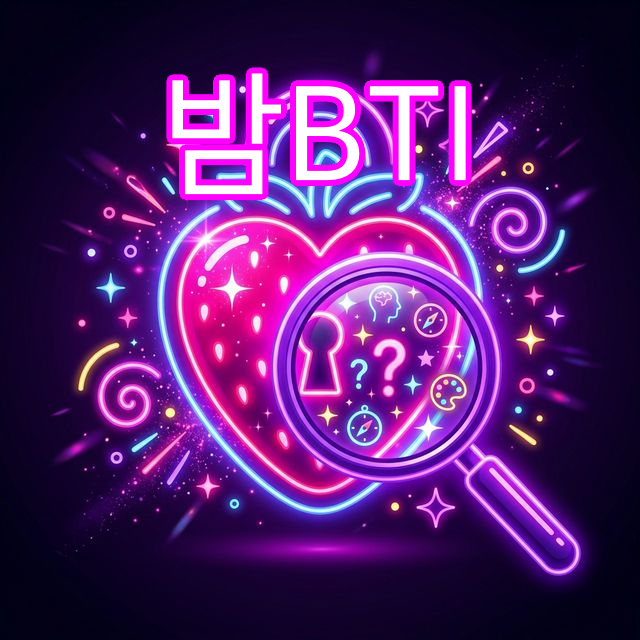
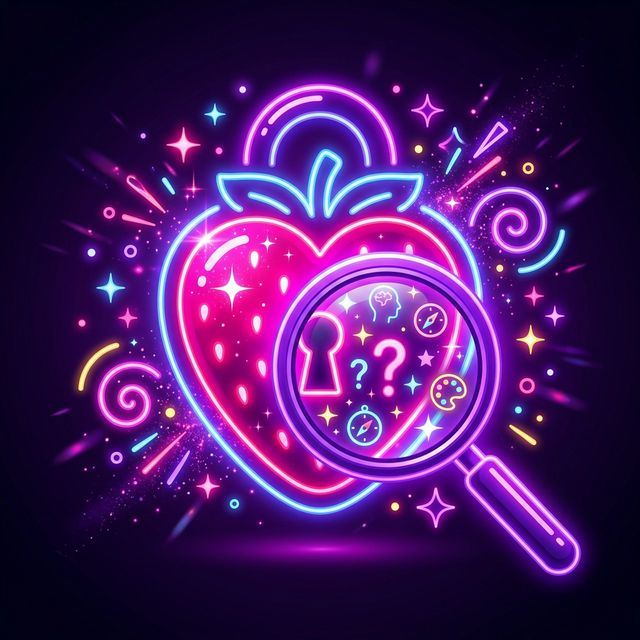
Revert OG image to textless and update OG title to include 밤BTI

Changed region(s): [[0.25, 0.0938, 0.75, 0.3125]]

diff --git a/index.html b/index.html
@@ -8,14 +8,14 @@
     <!-- Open Graph / KakaoTalk Preview -->
     <meta property="og:type" content="website">
     <meta property="og:url" content="https://bam-bti.vercel.app/">
-    <meta property="og:title" content="나만 쓰레기야..? 🗑 내 머릿속 음란마귀 뇌구조 테스트">
+    <meta property="og:title" content="나만 쓰레기야..? 🗑 내 머릿속 음란마귀 밤BTI 테스트">
     <meta property="og:description" content="내 겉모습은 유교걸/보이, 속마음은...? 당신의 숨겨진 본성 BTI를 알아보세요!">
     <meta property="og:image" content="https://bam-bti.vercel.app/og-image-v2.png">
     
     <!-- Twitter -->
     <meta name="twitter:card" content="summary_large_image">
     <meta name="twitter:url" content="https://bam-bti.vercel.app/">
-    <meta name="twitter:title" content="나만 쓰레기야..? 🗑 내 머릿속 음란마귀 뇌구조 테스트">
+    <meta name="twitter:title" content="나만 쓰레기야..? 🗑 내 머릿속 음란마귀 밤BTI 테스트">
     <meta name="twitter:description" content="내 겉모습은 유교걸/보이, 속마음은...? 당신의 숨겨진 본성 BTI를 알아보세요!">
     <meta name="twitter:image" content="https://bam-bti.vercel.app/og-image-v2.png">
     <!-- Google AdSense -->
